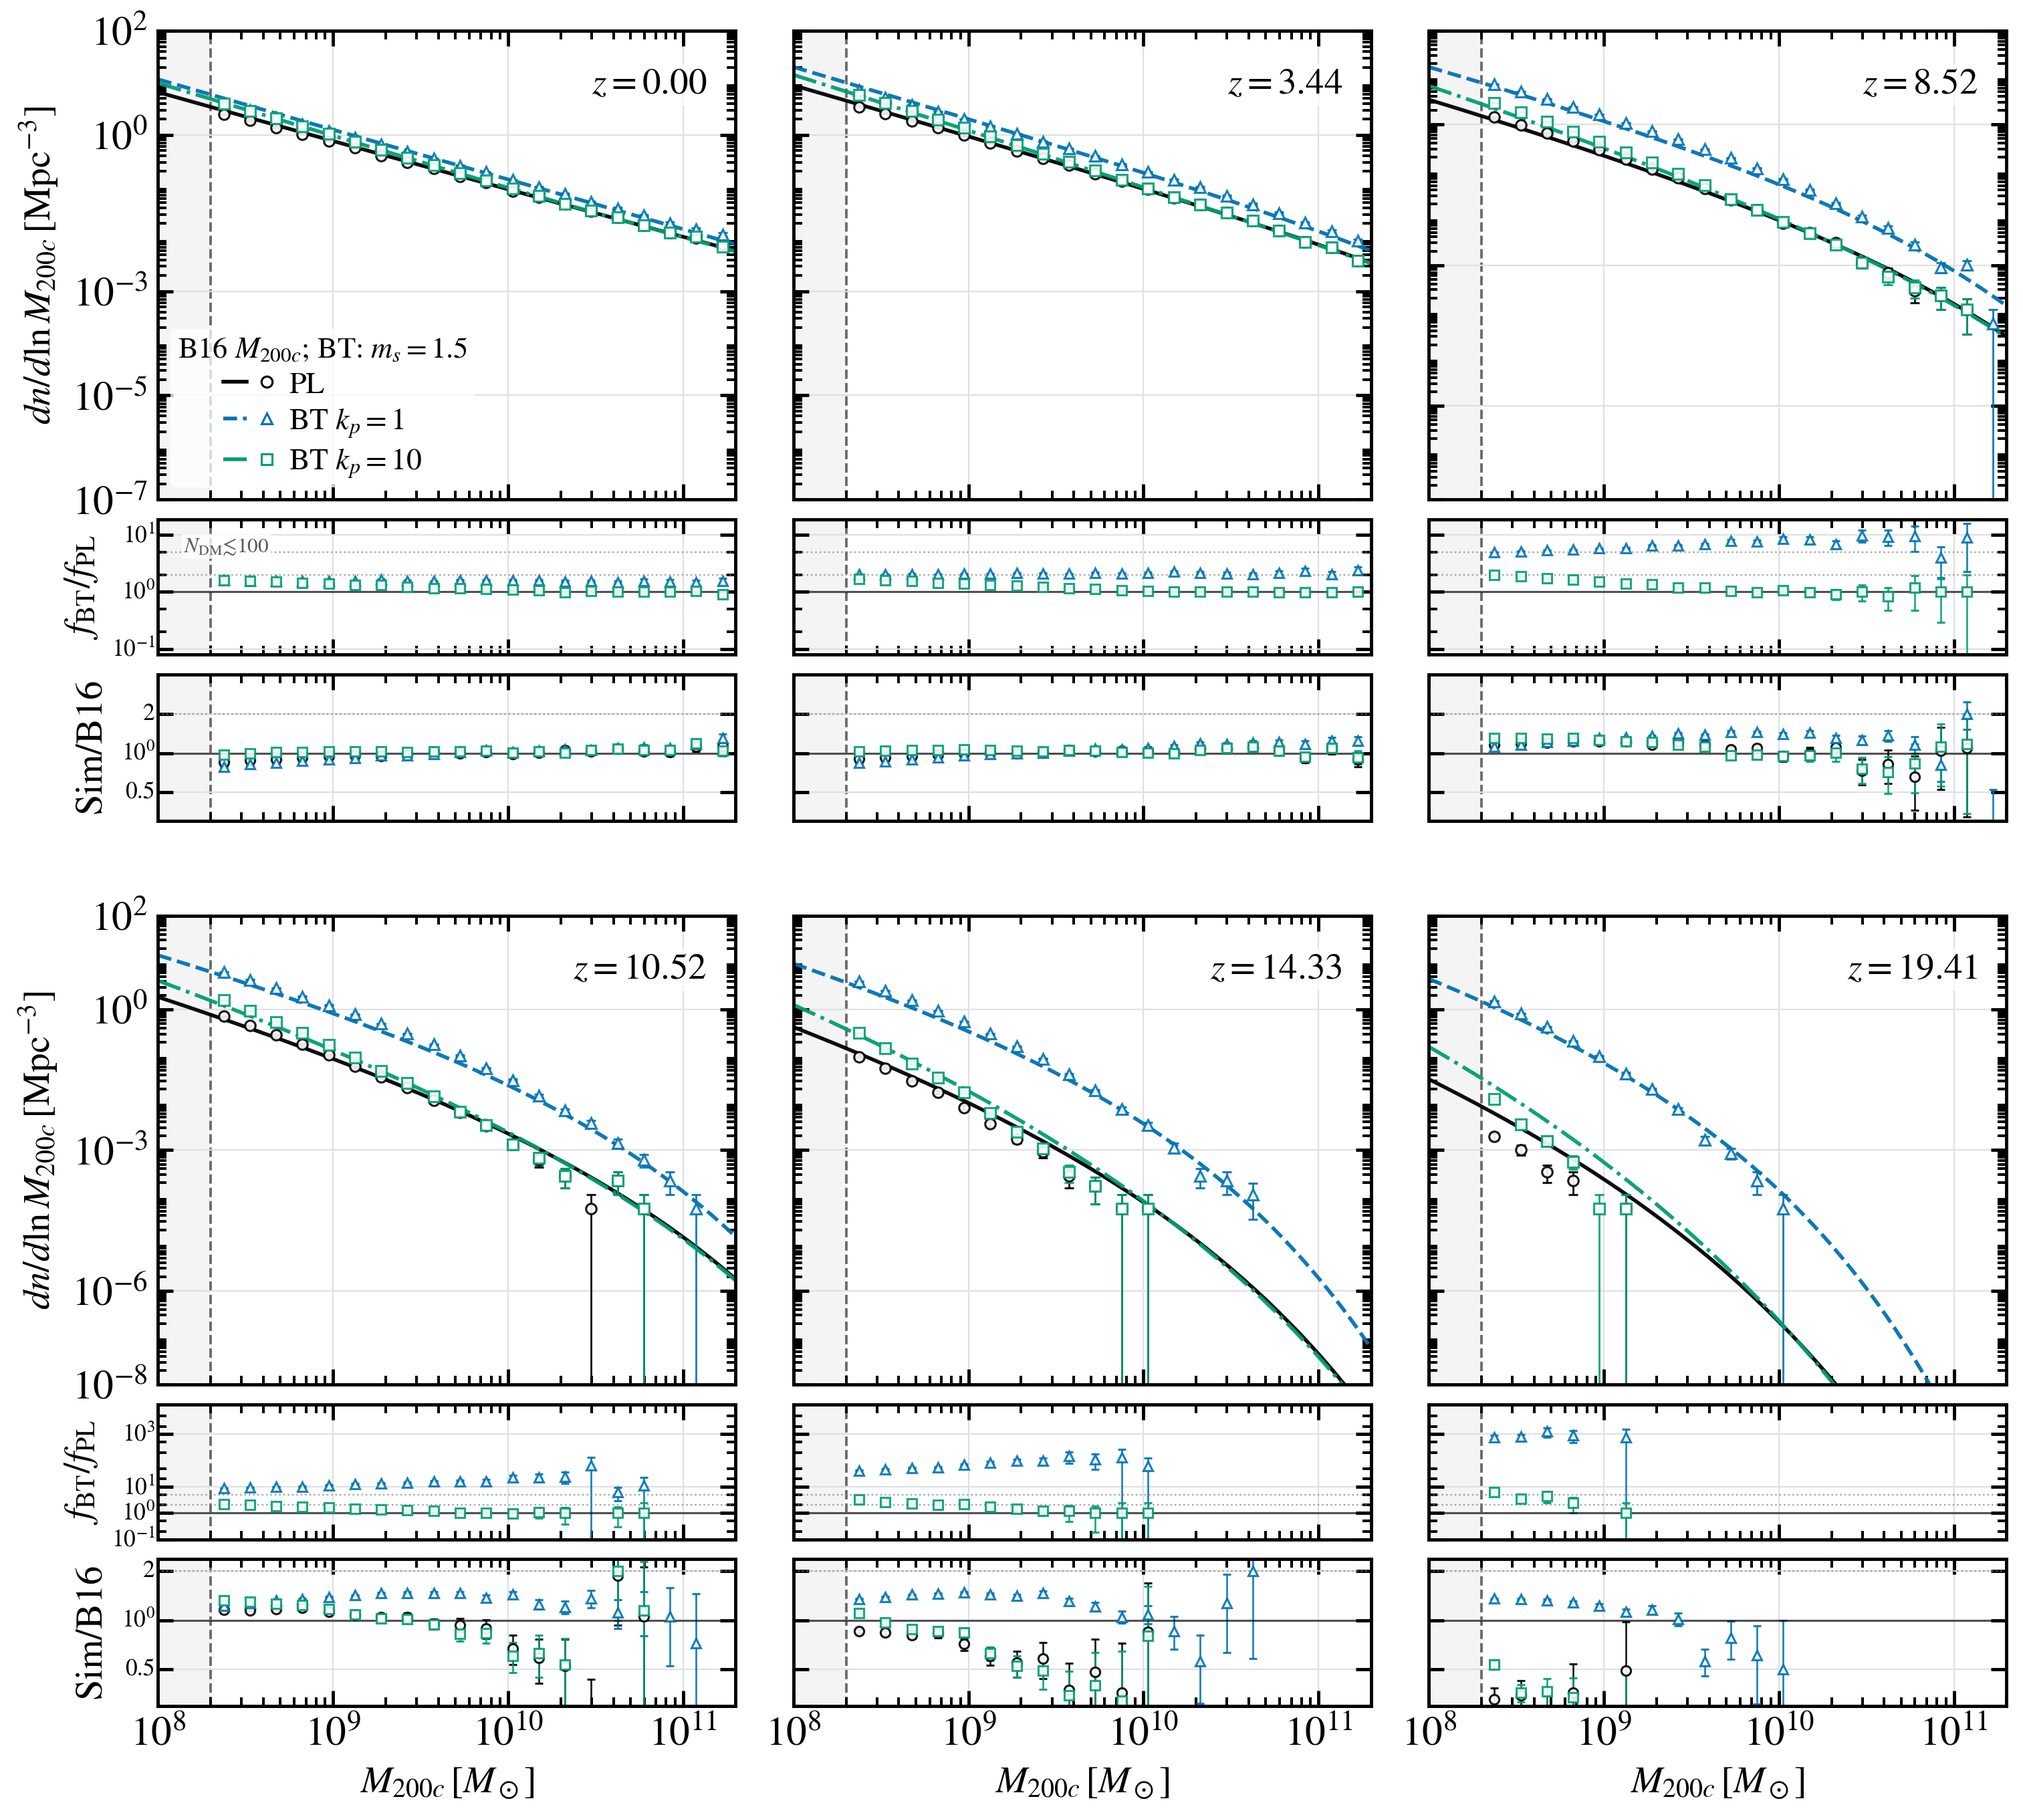
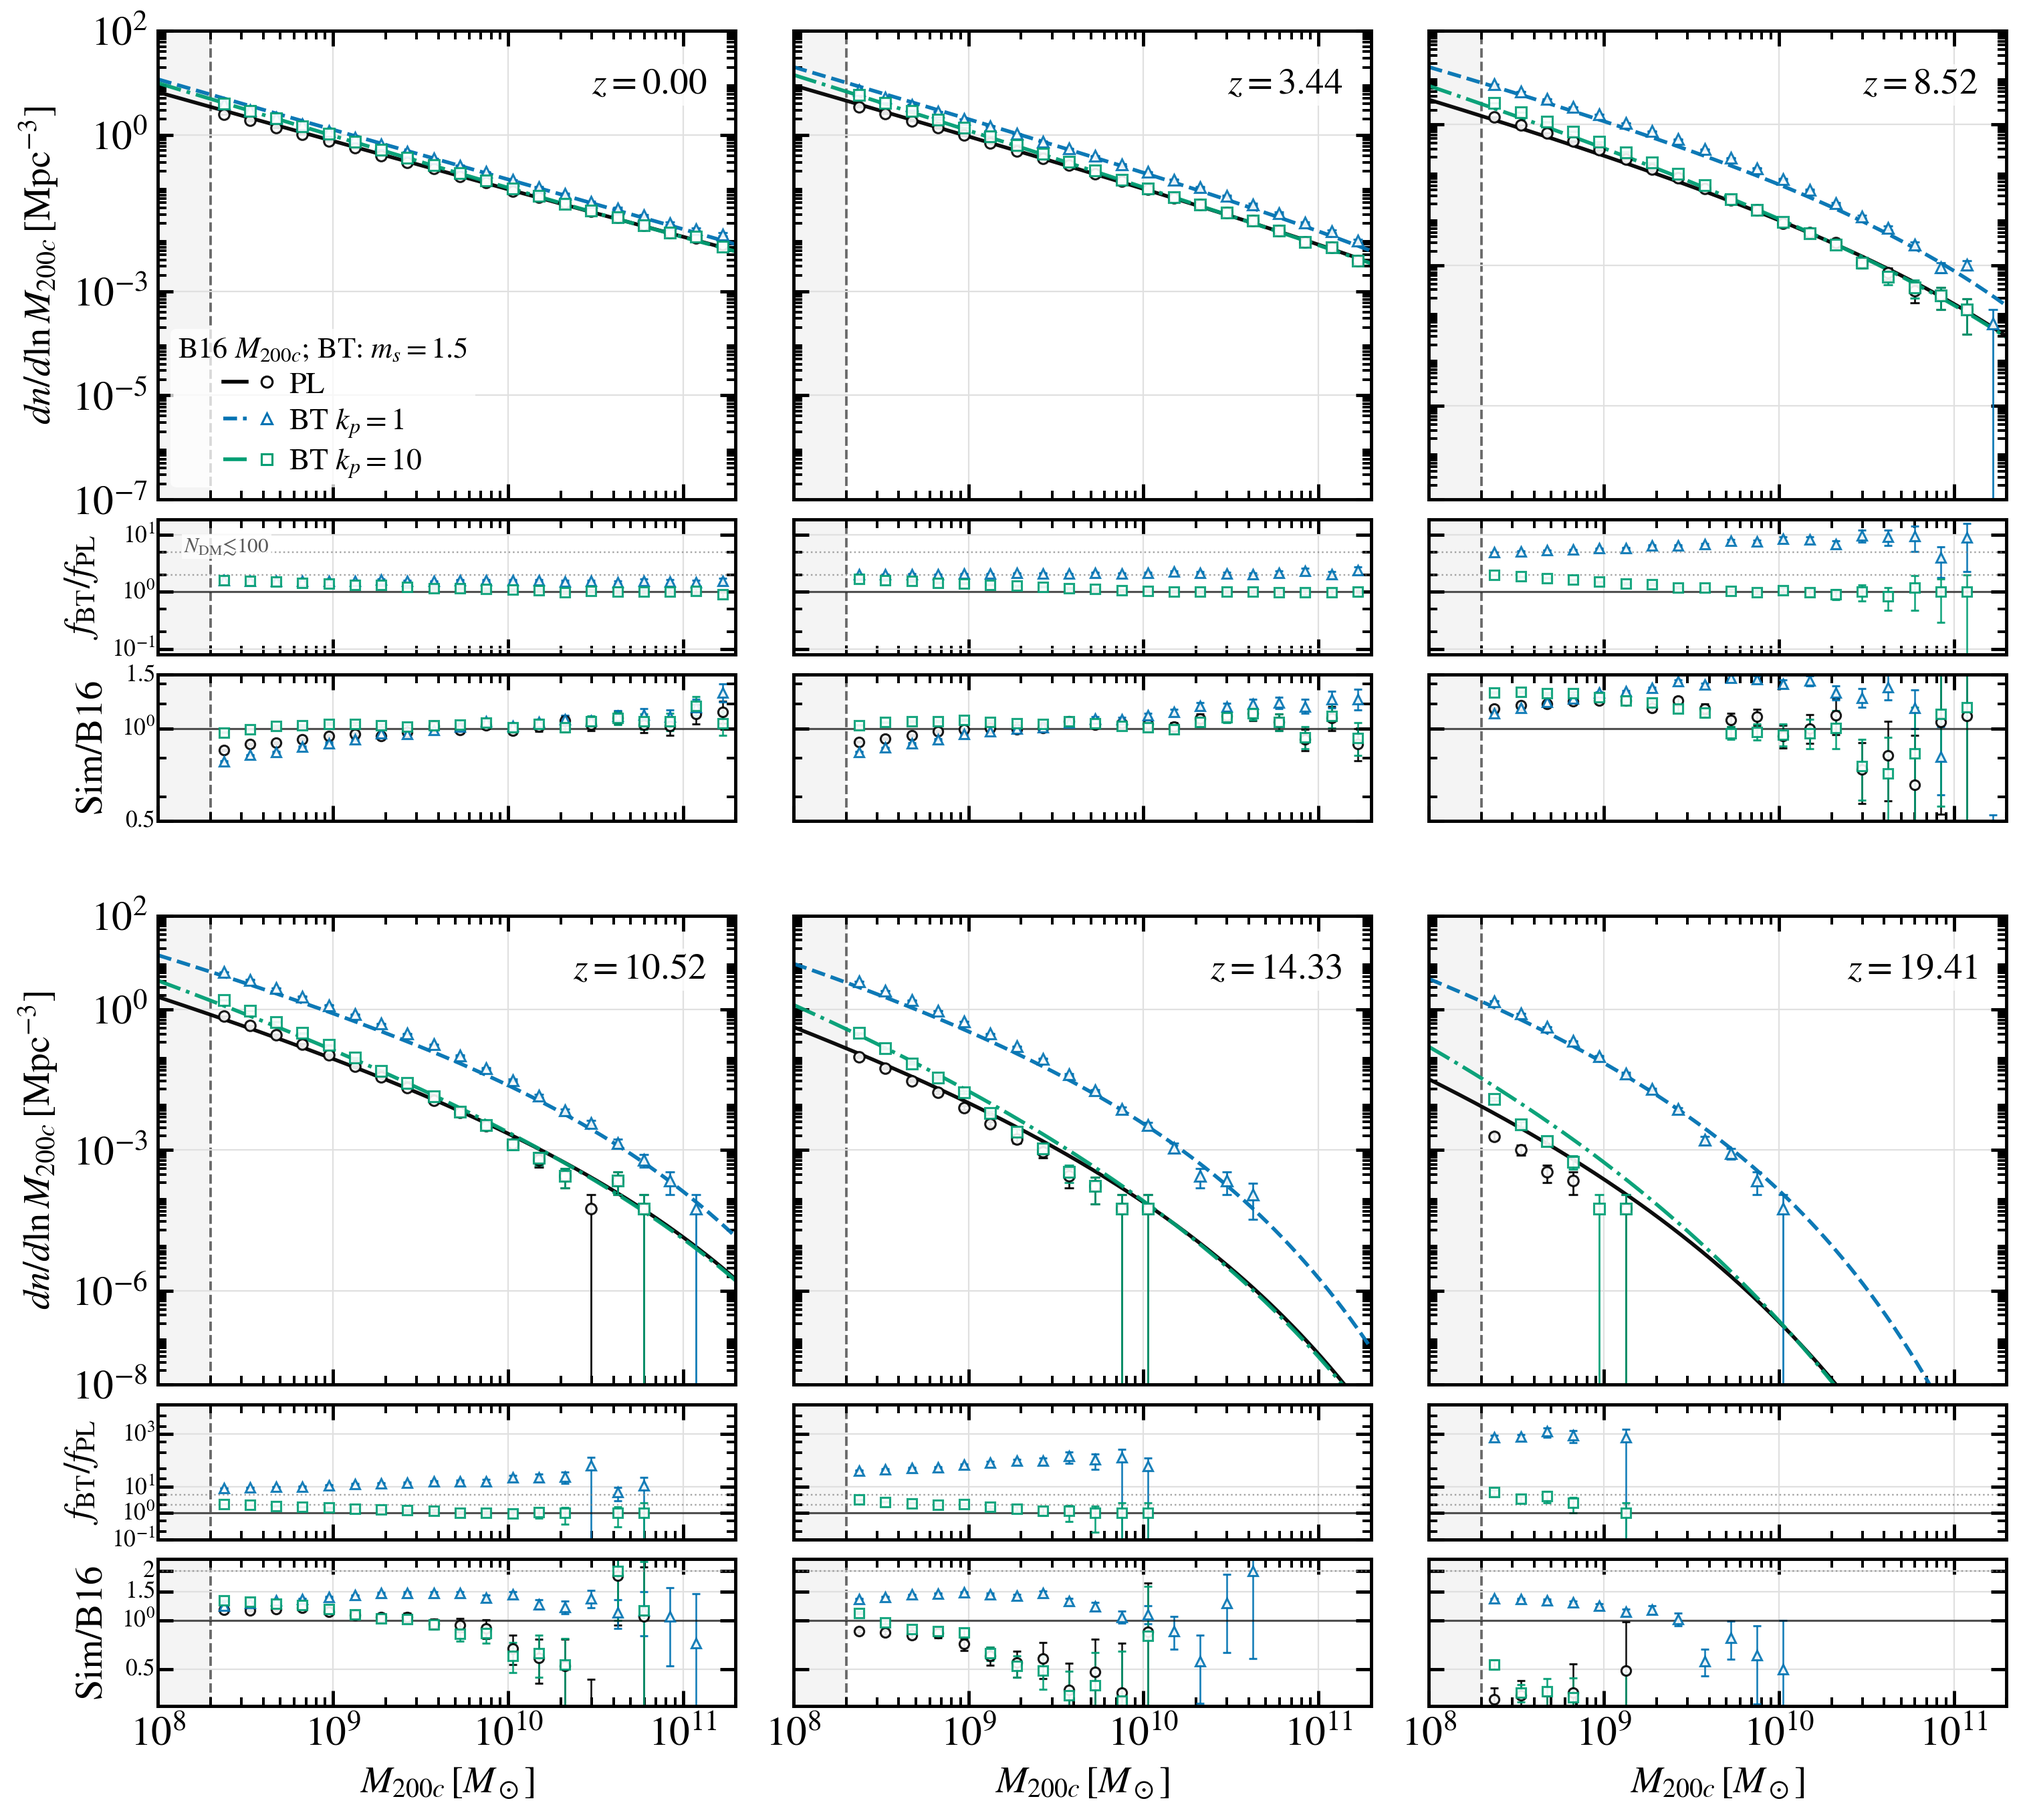
Tighten top-row B16 ratio range

Changed region(s): [[0.7145, 0.3709, 0.9941, 0.4636], [0.4038, 0.3709, 0.6834, 0.4327], [0.0621, 0.3709, 0.3728, 0.4327]]

diff --git a/public_data/scripts/plot_bocquet16_m200c_hmf.py b/public_data/scripts/plot_bocquet16_m200c_hmf.py
@@ -93,7 +93,8 @@ THEORY_MASS_MSUN = 10 ** np.linspace(8.0, 13.8, 400)
 HMF_X_MAJOR_TICKS = 10.0 ** np.arange(8, 12)
 HMF_RATIO_TICK_POOL = np.array([0.1, 0.2, 0.5, 1.0, 2.0, 5.0, 10.0, 20.0, 50.0, 100.0, 200.0, 500.0, 1000.0])
 BT_PL_LABEL_TICKS = np.array([0.1, 1.0, 10.0, 1000.0])
-SIM_B16_LABEL_TICKS = np.array([0.5, 1.0, 2.0])
+SIM_B16_LABEL_TICKS = np.array([0.5, 1.0, 1.5, 2.0])
+SIM_B16_TOP_ROW_YLIM = (0.5, 1.5)
 PUBLIC_MODEL_MAP = {"PL": "PL", "BT_soft": "BT_soft", "BT_deep": "BT_deep", "BTKP1": "BT_soft", "BTKP10": "BT_deep"}
 
 MODELS = {
@@ -481,6 +482,8 @@ def plot_results(sim_results, theory_results):
             expand_large_range=(row > 0),
         )
         sim_b16_ratio_ylims[row] = padded_ratio_ylim(sim_b16_values_by_row.get(row, []), fallback=(0.5, 2.0))
+        if row == 0:
+            sim_b16_ratio_ylims[row] = SIM_B16_TOP_ROW_YLIM
 
     fig = plt.figure(figsize=(3.20 * n_cols, 4.35 * n_rows))
     outer = gridspec.GridSpec(
